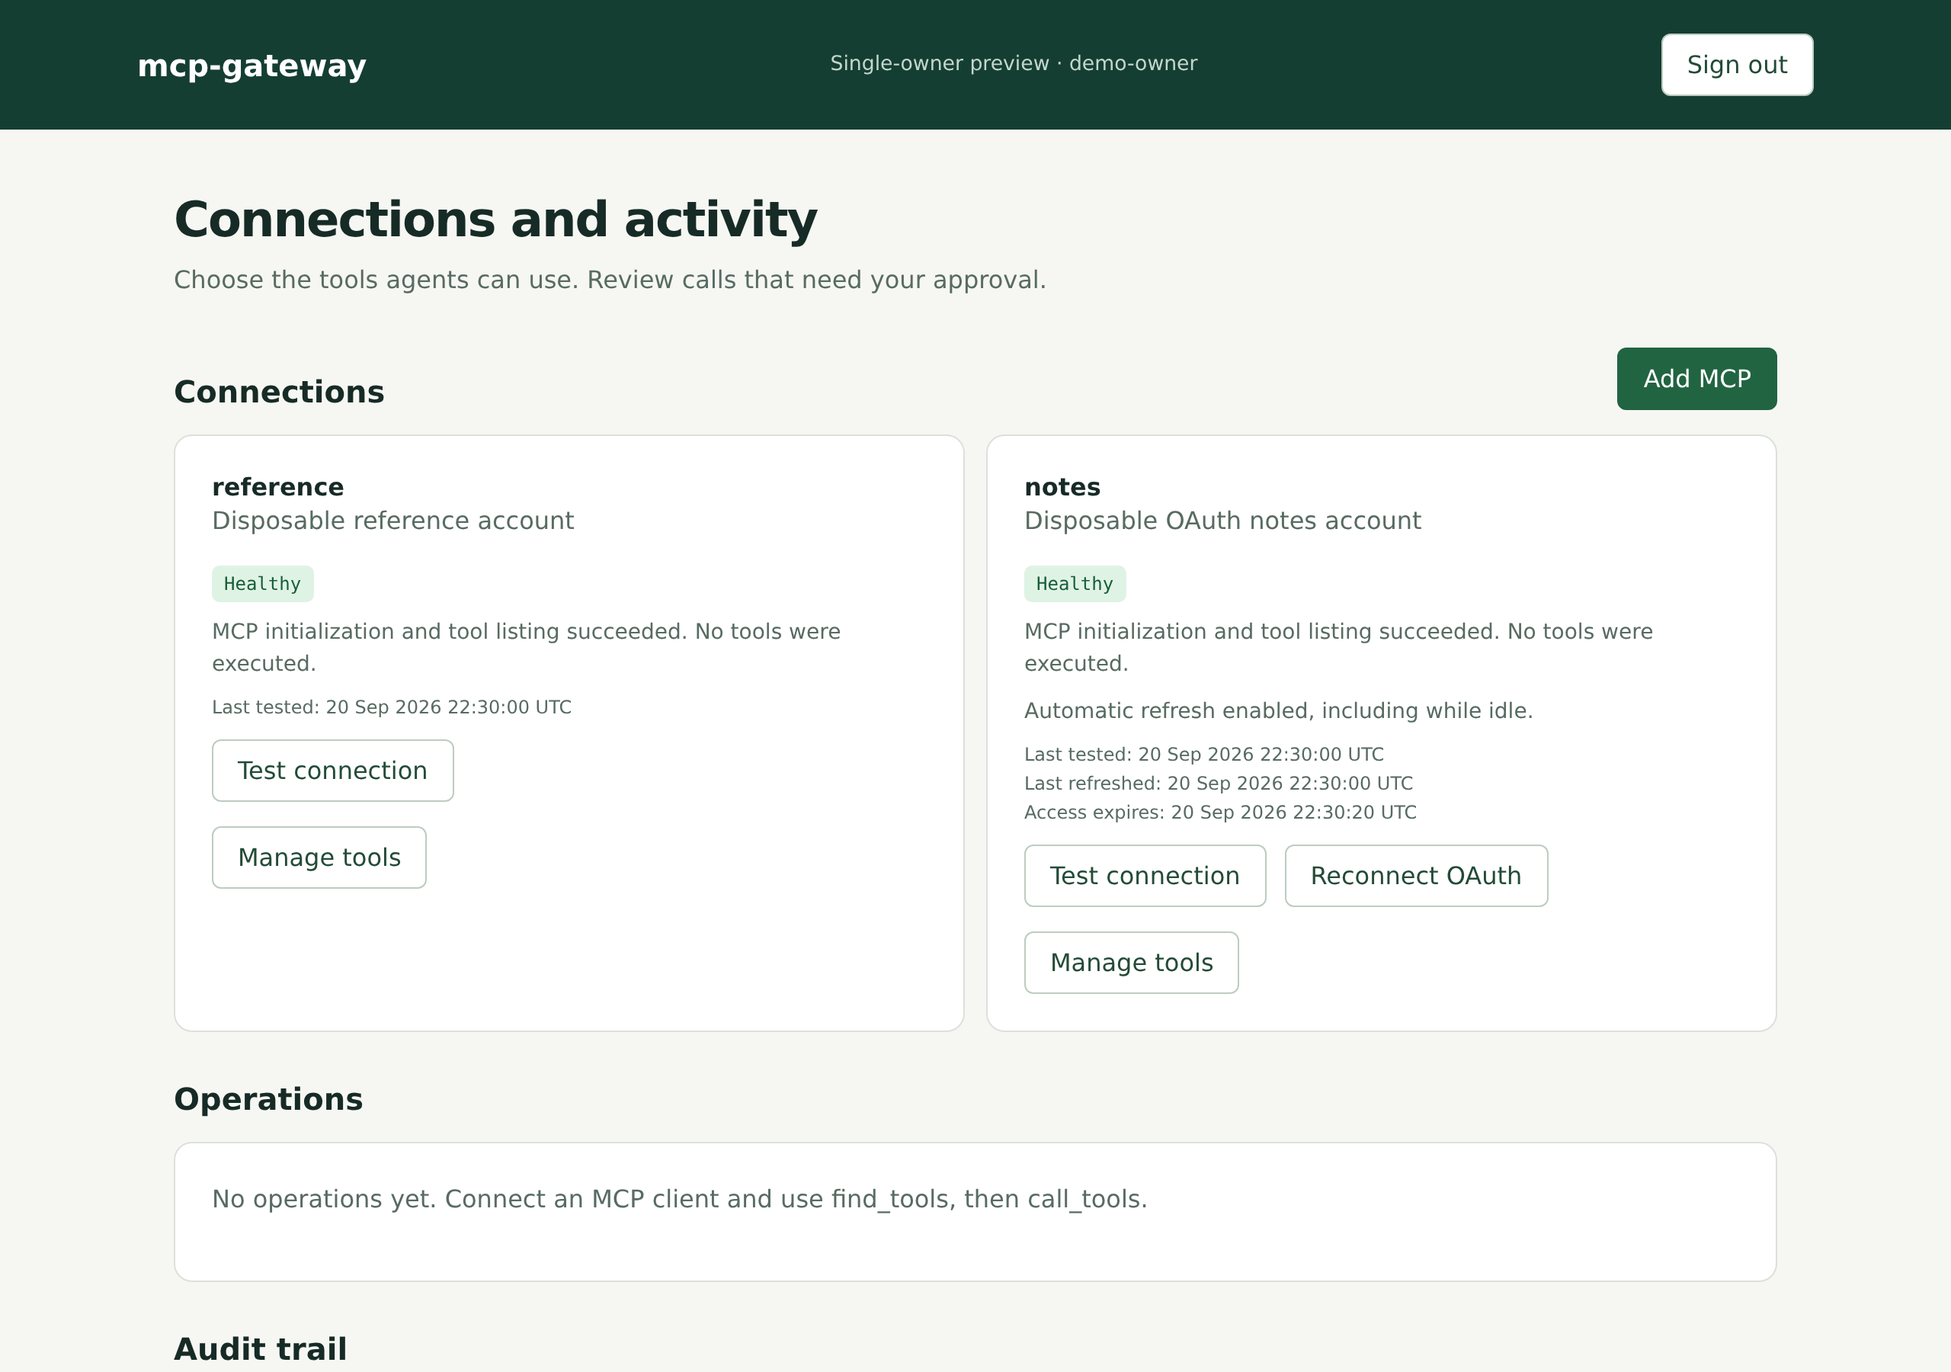
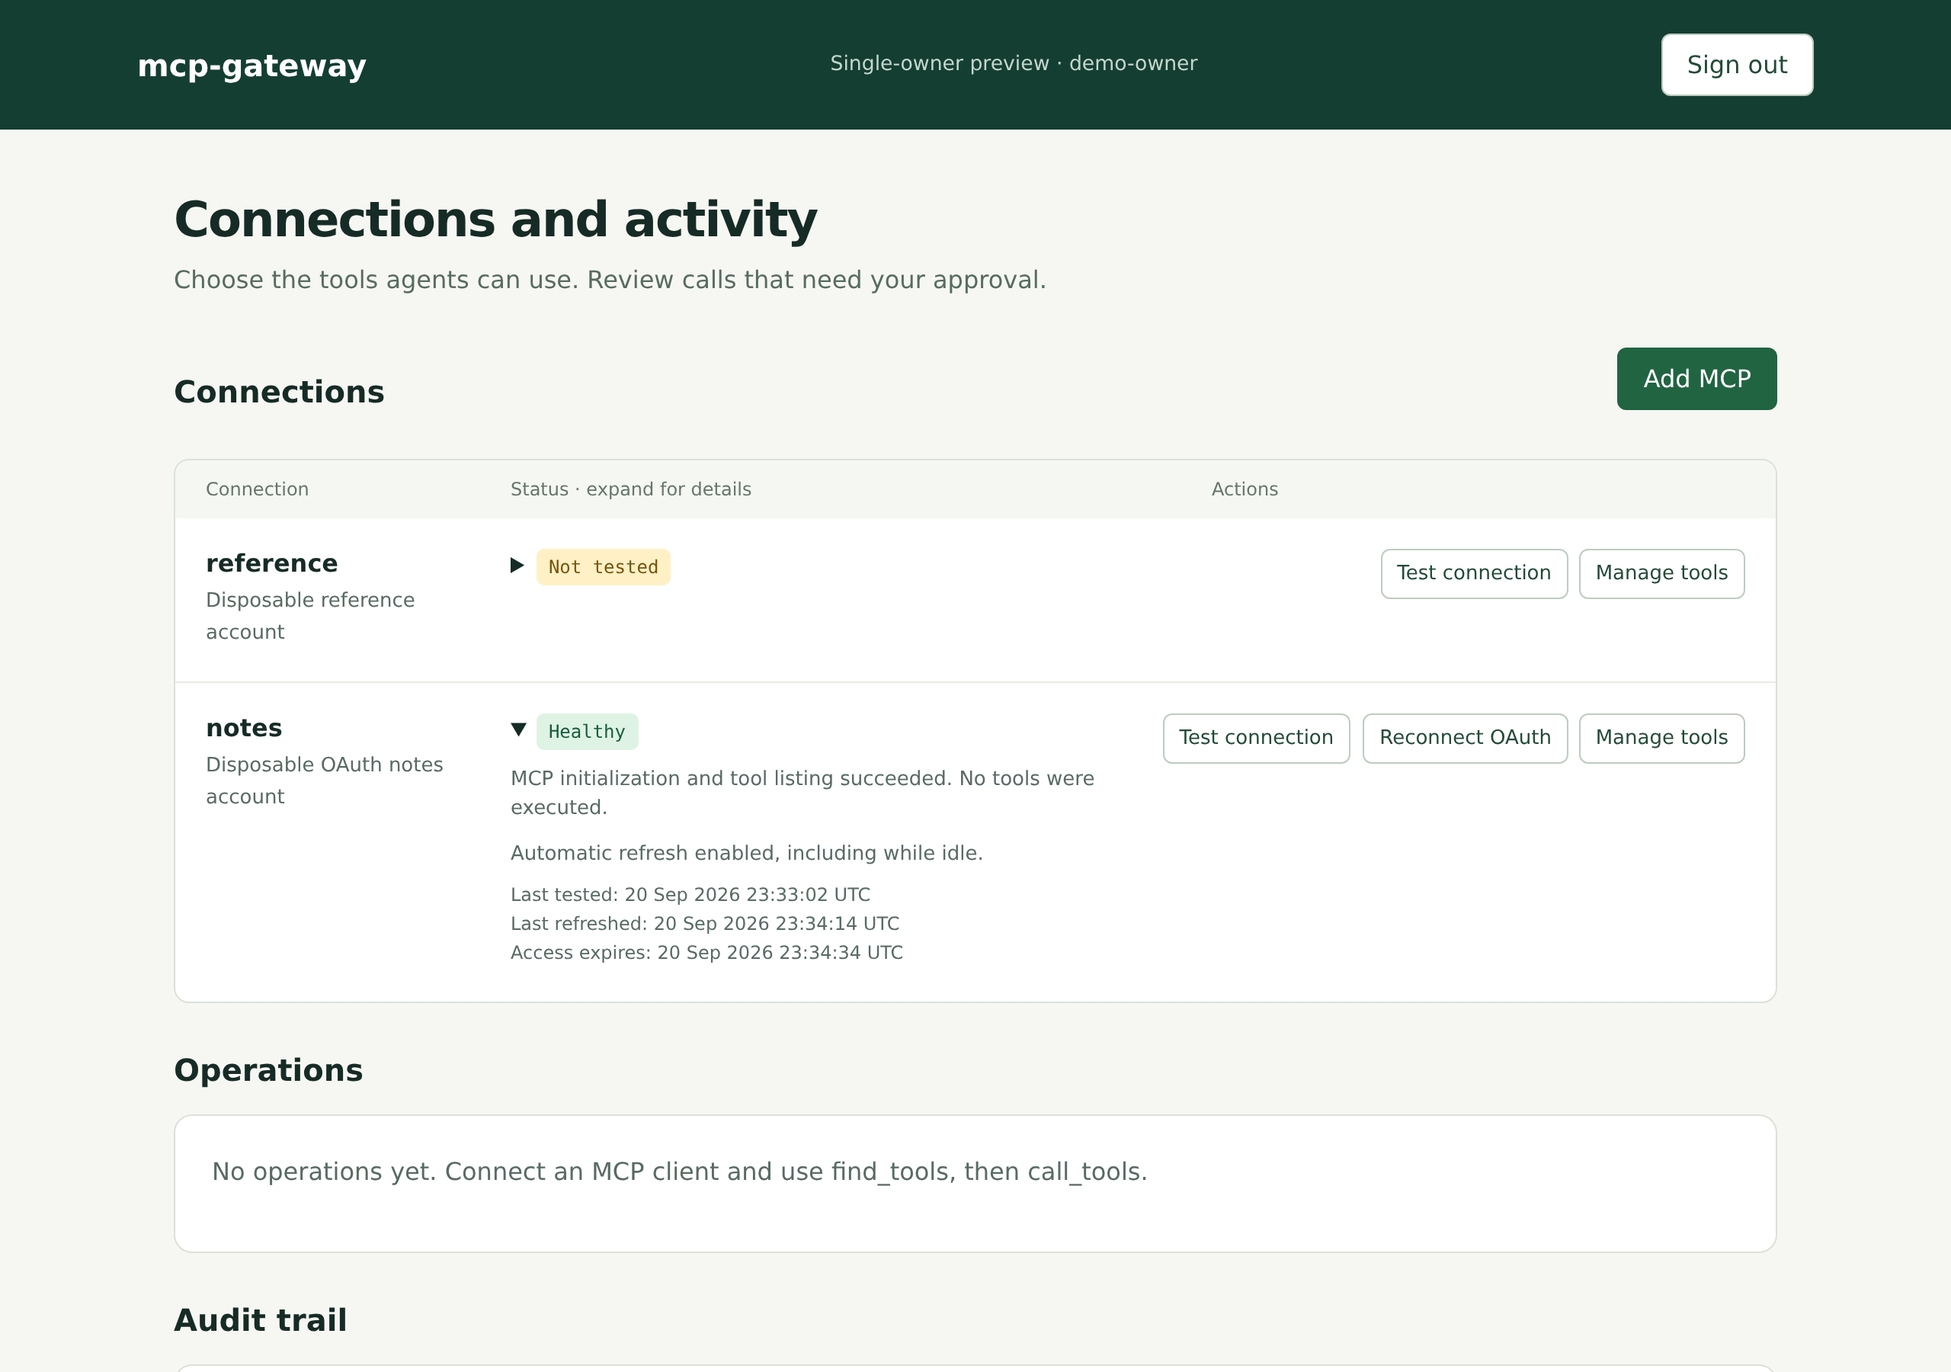
Compact connection health rows and avoid blocking status on refresh
Amp-Thread-ID: https://ampcode.com/threads/T-01a0bd1b-201d-76af-9d76-6c04b37ad752

diff --git a/internal/gateway/page.go b/internal/gateway/page.go
@@ -3,12 +3,13 @@ package gateway
 import "html/template"
 
 var page = template.Must(template.New("page").Parse(`{{define "health"}}{{if .}}
-<span class="badge {{if eq .Status "Healthy"}}succeeded{{else}}pending{{end}}">{{.Status}}</span>
-<p class="help">{{.Detail}}</p>{{if .Refresh}}<p class="help">{{.Refresh}}</p>{{end}}
+<details class="health-details"><summary><span class="badge {{if eq .Status "Healthy"}}succeeded{{else}}pending{{end}}">{{.Status}}</span><span class="visually-hidden"> · Connection diagnostics</span></summary>
+{{if or (eq .Status "Healthy") (eq .Status "Not tested")}}<p class="help">{{.Detail}}</p>{{end}}{{if .Refresh}}<p class="help">{{.Refresh}}</p>{{end}}
 <div class="health-times">{{if not .CheckedAt.IsZero}}<p>Last tested: {{.CheckedAt.Format "02 Jan 2006 15:04:05 UTC"}}</p>{{end}}
 {{if not .RefreshedAt.IsZero}}<p>Last refreshed: {{.RefreshedAt.Format "02 Jan 2006 15:04:05 UTC"}}</p>{{end}}
 {{if not .ExpiresAt.IsZero}}<p>Access expires: {{.ExpiresAt.Format "02 Jan 2006 15:04:05 UTC"}}</p>{{end}}
-{{if not .RetryAt.IsZero}}<p>Retry after: {{.RetryAt.Format "02 Jan 2006 15:04:05 UTC"}}</p>{{end}}</div>{{end}}{{end}}
+{{if not .RetryAt.IsZero}}<p>Retry after: {{.RetryAt.Format "02 Jan 2006 15:04:05 UTC"}}</p>{{end}}</div></details>
+{{if and (ne .Status "Healthy") (ne .Status "Not tested")}}<p class="help health-warning">{{.Detail}}</p>{{end}}{{end}}{{end}}
 {{define "connection-health"}}<section class="connection-status" aria-label="Connection health">
 <div class="connection-health" role="status">{{template "health" .Health}}</div>
 <form class="connection-test actions" method="post" action="/connections/{{.ID}}/test"><button>Test connection</button>
@@ -21,7 +22,8 @@ var page = template.Must(template.New("page").Parse(`{{define "health"}}{{if .}}
 .heading{display:flex;justify-content:space-between;align-items:center;gap:16px}.setup{max-width:760px;margin:auto}.field{display:grid;gap:8px;margin-bottom:22px}.field label{font-weight:600}.field small,.help{color:#586b62;line-height:1.5}input,select{box-sizing:border-box;width:100%;padding:11px 12px;border:1px solid #bccdc0;border-radius:6px;background:white;color:#172b26;font:inherit}input:focus,select:focus{outline:2px solid #216442;outline-offset:2px}.setup details{margin:16px 0}.setup summary,summary{cursor:pointer}.setup details .field{margin-top:18px}.error{background:#fde9e5;border-left:3px solid #9f3535;padding:16px}.success{background:#dff3e5;padding:16px}.setup form:not(:has(option[value="bearer"]:checked)) .bearer-fields{display:none}.setup form:not(:has(option[value="oauth"]:checked)) .oauth-fields{display:none}.tool-row{display:grid;grid-template-columns:minmax(0,1fr) 210px;gap:24px;padding:22px 0;border-bottom:1px solid #e7ebe5}.tool-row:last-child{border:0}.tool-row h2{margin:0 0 8px;font:600 16px ui-monospace,monospace;overflow-wrap:anywhere}.tool-row p{line-height:1.5;overflow-wrap:anywhere}.tool-row details{margin-top:12px}.tool-row label{display:block;font-size:13px;margin-bottom:8px}.actions{flex-wrap:wrap}.endpoint{overflow-wrap:anywhere} @media(max-width:600px){.tool-row{grid-template-columns:1fr;gap:8px}.heading{align-items:flex-start;flex-direction:column}}
 @media(min-width:601px){.tool-row{grid-template-columns:minmax(0,1fr) 260px}}
 .permissions{max-width:820px;margin:auto}.connection-heading{display:flex;justify-content:space-between;align-items:center;gap:20px;margin:18px 0 6px}.connection-heading h1{margin:0;font-size:28px;overflow-wrap:anywhere}.auth-status{flex-shrink:0;font-size:13px;list-style:none;border:1px solid #bccdc0;border-radius:6px;padding:8px 12px;cursor:pointer;color:#226a4d}.auth-status::-webkit-details-marker{display:none}.auth-status:before{content:'●';margin-right:8px}.auth-status.pending{color:#77550b}.auth-details{max-width:440px}.auth-details[open]{align-self:flex-start}.auth-details .help{font-size:13px}.auth-details summary:focus-visible,button:focus-visible,.button:focus-visible{outline:2px solid #216442;outline-offset:3px}.permission-default{border:0;padding:0;margin:38px 0 28px;min-width:0}.permission-default legend{font-size:16px;font-weight:650;padding:0}.permission-default .help{font-size:14px;margin:8px 0 16px}.default-options{display:flex;border:1px solid #bccdc0;border-radius:6px;overflow:hidden;background:white}.default-options label{position:relative;flex:1;text-align:center;cursor:pointer}.default-options label+label{border-left:1px solid #bccdc0}.default-options input{position:absolute;opacity:0;width:1px;height:1px}.default-options span{display:flex;align-items:center;justify-content:center;min-height:44px;padding:8px;font-size:14px;height:100%}.default-options input:checked+span{background:#216442;color:white}.default-options input:focus-visible+span{outline:2px solid #172b26;outline-offset:-4px}.default-warning{color:#9c3724}.permissions .note{margin:24px 0}.exceptions-card{border-radius:7px;padding:22px;margin:24px 0}.exceptions-heading{display:flex;align-items:start;justify-content:space-between;gap:16px;margin-bottom:22px}.exceptions-heading h2{margin:6px 0 0;font-size:18px}.refresh-tools{text-align:right}.refresh-tools button{padding:7px 12px;font-size:13px}.refresh-tools .help{margin:6px 0 0;font-size:12px}.exception-search{display:flex;gap:12px;margin-bottom:16px}.exception-search input{flex:1;min-width:0;font-size:14px}.exception-search button{white-space:nowrap;font-size:14px}.policy-columns,.policy-row{display:grid;grid-template-columns:minmax(0,1fr) 210px 32px;gap:14px;align-items:center}.policy-columns{background:#f5f7f3;padding:10px 8px;border-block:1px solid #e7ebe5;font-size:12px}.policy-row{padding:12px 8px;border-bottom:1px solid #e7ebe5}.policy-row summary{overflow-wrap:anywhere;font-size:14px;cursor:pointer}.policy-row details p{font-size:13px;line-height:1.5;overflow-wrap:anywhere}.policy-row select{font-size:13px;padding:9px 10px}.policy-row pre{padding:12px}.remove-exception{padding:6px;border:0;background:transparent;line-height:1;display:flex;justify-content:center}.remove-exception svg{width:17px;height:17px}.tool-select{display:none}.permissions input[type=checkbox]{width:16px;height:16px;margin:0;accent-color:#216442}.bulk-mode .policy-columns,.bulk-mode .policy-row{grid-template-columns:20px minmax(0,1fr) 210px 32px}.bulk-mode .tool-select{display:block}.bulk-actions{display:flex;align-items:center;flex-wrap:wrap;gap:8px;margin:16px 0;font-size:13px}.bulk-actions button{font-size:12px;padding:7px 10px}.bulk-actions span{margin-right:auto}.tool-navigation{display:flex;flex-wrap:wrap;align-items:center;gap:16px;margin-top:18px;font-size:13px}.text-button{border:0;padding:0;background:transparent;color:#226a4d;text-decoration:underline;font-size:13px}.tool-navigation .help{margin:0;margin-right:auto;font-size:12px}.policy-footer .help{font-size:12px}.policy-footer .actions{margin-top:28px}.visually-hidden{position:absolute;width:1px;height:1px;padding:0;margin:-1px;overflow:hidden;clip-path:inset(50%);white-space:nowrap;border:0}[hidden]{display:none!important}@media(max-width:600px){.connection-heading{align-items:flex-start;flex-direction:column;gap:12px}.auth-details{max-width:100%}.exceptions-card{padding:16px}.policy-columns,.policy-row{grid-template-columns:minmax(0,1fr) 32px;gap:10px}.policy-columns .permission-column{display:none}.policy-row details{grid-column:1}.policy-row .policy-choice{grid-column:1;grid-row:2}.policy-row .remove-exception{grid-column:2;grid-row:2}.bulk-mode .policy-columns,.bulk-mode .policy-row{grid-template-columns:20px minmax(0,1fr) 32px}.bulk-mode .policy-row details,.bulk-mode .policy-row .policy-choice{grid-column:2}.bulk-mode .policy-row .remove-exception{grid-column:3}.exception-search{flex-wrap:wrap}.exception-search input{flex-basis:100%}.default-options span{font-size:12px}.exceptions-heading{gap:8px}.refresh-tools{max-width:55%}}
-.connection-status{margin:16px 0}.connection-health .help{font-size:14px;margin:10px 0}.health-times{font-size:12px;color:#586b62}.health-times p{margin:5px 0}.connection-test.actions{margin-top:14px}.connection-test button:disabled{cursor:wait;opacity:.65}
+.connection-status{margin:16px 0;display:flex;align-items:start;justify-content:space-between;gap:16px;flex-wrap:wrap}.connection-health{min-width:0;flex:1}.connection-health .help{font-size:13px;margin:10px 0}.health-times{font-size:12px;color:#586b62}.health-times p{margin:5px 0}.connection-test.actions{margin:0;gap:8px}.connection-test button:disabled{cursor:wait;opacity:.65}.health-details summary{white-space:nowrap}.health-details summary:focus-visible{outline:2px solid #216442;outline-offset:3px}.health-warning{max-width:46ch}.connection-list{background:white;border:1px solid #dbe1d9;border-radius:10px;margin:16px 0;overflow:hidden}.connection-row{display:grid;grid-template-columns:180px minmax(0,1fr) auto;gap:20px;align-items:start;padding:20px;border-bottom:1px solid #e7ebe5}.connection-row:last-child{border:0}.connection-identity{overflow-wrap:anywhere}.connection-identity .sub{font-size:13px;margin:6px 0 0}.connection-row .connection-status{margin:0;display:contents}.connection-row .connection-health{grid-column:2;grid-row:1}.connection-row .connection-test{grid-column:3;grid-row:1;padding-right:116px}.connection-row>.button{grid-column:3;grid-row:1;justify-self:end}.connection-row button,.connection-row .button{font-size:13px;padding:8px 10px}.connection-row .test-error{grid-column:2 / -1;margin:0}.connection-columns{display:grid;grid-template-columns:180px 1fr auto;gap:20px;padding:12px 20px;background:#f5f7f3;color:#66756d;font-size:12px}.connection-columns span:last-child{width:350px}@media(max-width:900px){.connection-row{grid-template-columns:minmax(0,1fr) minmax(0,1fr)}.connection-columns{display:none}.connection-row .connection-test{grid-column:1 / -1;grid-row:2;justify-content:flex-start}.connection-row>.button{grid-column:1 / -1;grid-row:2}.connection-row .test-error{grid-column:1 / -1}.connection-status{flex-direction:column}}@media(max-width:400px){.connection-row .connection-test{padding-right:0}.connection-row>.button{grid-row:3;justify-self:start}}
+@media(max-width:600px){.connection-row{grid-template-columns:minmax(0,1fr);gap:14px}.connection-row .connection-health{grid-column:1;grid-row:2}.connection-row .connection-test{grid-row:3;padding-right:0}.connection-row>.button{grid-row:4;justify-self:start}}
 </style></head><body><header><a href="/">mcp-gateway</a><small>Single-owner preview{{if not .Operation}} · {{.Owner}}{{end}}</small><form method="post" action="/logout"><button>Sign out</button></form></header><main>
 {{if .AddConnection}}
 <div class="setup"><a href="/">← Connections</a><h1>Add MCP</h1><p class="sub">Connect a remote server, then choose which tools agents can use.</p>
@@ -157,7 +159,7 @@ var page = template.Must(template.New("page").Parse(`{{define "health"}}{{if .}}
 {{if .Result}}<div class="card result"><h2>{{if eq .Status "failed"}}Error response{{else}}Result{{end}}</h2>{{range $.ResultBlocks}}<pre>{{.}}</pre>{{end}}<details><summary>{{if eq .Status "unknown"}}Stored response{{else}}Raw MCP response{{end}}</summary><pre>{{$.RawResult}}</pre></details></div>{{end}}
 <details class="card"><summary>Request details</summary><dl><dt>Request ID</dt><dd><code>{{.ID}}</code></dd><dt>Tool</dt><dd><code>{{.Tool}}</code></dd><dt>Connection</dt><dd>{{.Connection}}</dd></dl><h3>Exact arguments</h3><pre>{{$.Arguments}}</pre></details>
 <details class="card"><summary>Identity &amp; audit</summary><dl><dt>On behalf of</dt><dd>{{.Subject}}</dd>{{if .AmpUserID}}<dt>Amp user</dt><dd><code>{{.AmpUserID}}</code> (verified)</dd>{{end}}<dt>Upstream account</dt><dd>{{.Account}} <small>(configured label, not verified identity)</small></dd><dt>Calling model</dt><dd>{{if .Model}}{{.Model}} — client-reported, unverified{{else}}Unknown — not supplied by client{{end}}</dd><dt>Request digest</dt><dd><code>{{.Digest}}</code></dd></dl></details></section>{{end}}
-{{else}}<h1>Connections and activity</h1><p class="sub">Choose the tools agents can use. Review calls that need your approval.</p><div class="heading"><h2>Connections</h2><a class="button primary" href="/connections/new">Add MCP</a></div><div class="grid">{{range .Connections}}<div class="card"><strong>{{.ID}}</strong><p class="sub">{{.Account}}</p>
+{{else}}<h1>Connections and activity</h1><p class="sub">Choose the tools agents can use. Review calls that need your approval.</p><div class="heading"><h2>Connections</h2><a class="button primary" href="/connections/new">Add MCP</a></div><div class="connection-list">{{if .Connections}}<div class="connection-columns" aria-hidden="true"><span>Connection</span><span>Status · expand for details</span><span>Actions</span></div>{{end}}{{range .Connections}}<div class="connection-row"><div class="connection-identity"><strong>{{.ID}}</strong><p class="sub">{{.Account}}</p></div>
 {{template "connection-health" .}}
 <a class="button" href="/connections/{{.ID}}/tools">Manage tools</a></div>{{else}}<div class="card"><p>No MCP servers connected yet.</p><p class="sub">Add a server, connect credentials, then review its tools.</p></div>{{end}}</div><h2>Operations</h2><div class="card scroll">{{if .Operations}}<table><thead><tr><th>Request</th><th>Tool</th><th>Account</th><th>Status</th></tr></thead><tbody>{{range .Operations}}<tr><td><a href="/operations/{{.ID}}">{{.ID}}</a></td><td>{{.Tool}}</td><td>{{.Account}}</td><td><span class="badge {{.Status}}">{{.Status}}</span></td></tr>{{end}}</tbody></table>{{else}}<p class="sub">No operations yet. Connect an MCP client and use find_tools, then call_tools.</p>{{end}}</div><h2>Audit trail</h2><div class="card scroll"><table><thead><tr><th>Sequence</th><th>Operation</th><th>Transition</th><th>Actor</th></tr></thead><tbody>{{range .Events}}<tr><td>{{.Sequence}}</td><td><a href="/operations/{{.Operation}}">{{.Operation}}</a></td><td>{{.Kind}}</td><td>{{.Actor}}</td></tr>{{else}}<tr><td colspan="4">No events yet.</td></tr>{{end}}</tbody></table></div>{{end}}
 {{end}}<footer>Local durable audit · encrypted payloads · not independently tamper-proof · no automatic write retries</footer></main>
@@ -169,7 +171,9 @@ document.querySelectorAll('.connection-test').forEach(form => form.addEventListe
   try {
     const response = await fetch(form.action, {method: 'POST', headers: {Accept: 'text/vnd.gateway.health+html'}});
     if (!response.ok || response.redirected) throw new Error('test failed');
-    section.querySelector('.connection-health').innerHTML = await response.text();
+    const health = section.querySelector('.connection-health'), expanded = health.querySelector('details')?.open;
+    health.innerHTML = await response.text();
+    if (expanded) health.querySelector('details').open = true;
   } catch (_) {
     error.textContent = 'Could not complete the test. Check your session and try again. Your tool permissions are unchanged.';
     error.hidden = false;

diff --git a/internal/gateway/connections_test.go b/internal/gateway/connections_test.go
@@ -531,6 +531,26 @@ func TestConnectionCheckIsReadOnlyAndOwnerProtected(t *testing.T) {
 	}
 }
 
+func TestHealthDisclosure(t *testing.T) {
+	for _, status := range []string{"Healthy", "Not tested", "Reconnect required", "Refresh uncertain", "Updating credentials"} {
+		t.Run(status, func(t *testing.T) {
+			w := httptest.NewRecorder()
+			if err := page.ExecuteTemplate(w, "health", upstream.Health{Status: status, Detail: "Health explanation", Refresh: "Refresh explanation"}); err != nil {
+				t.Fatal(err)
+			}
+			body := w.Body.String()
+			end := strings.Index(body, "</details>")
+			if end < 0 || strings.Contains(body, " open") || !strings.Contains(body[:end], "Refresh explanation") {
+				t.Fatal("diagnostics must be collapsed by default")
+			}
+			warning := status != "Healthy" && status != "Not tested"
+			if strings.Contains(body[end:], "Health explanation") != warning {
+				t.Fatal("only actionable health explanations should remain visible")
+			}
+		})
+	}
+}
+
 func TestDashboardOAuthStatus(t *testing.T) {
 	for _, status := range []string{"Healthy", "Not tested", "Not connected", "Reconnect required", "Status unavailable"} {
 		t.Run(status, func(t *testing.T) {

diff --git a/internal/upstream/credentials_test.go b/internal/upstream/credentials_test.go
@@ -33,6 +33,38 @@ func refreshFixture(t *testing.T, handler http.HandlerFunc, expiry time.Time) (*
 	return m, m.conns[c.ID], s
 }
 
+func TestHealthDuringSlowRefresh(t *testing.T) {
+	started, release := make(chan struct{}), make(chan struct{})
+	m, c, _ := refreshFixture(t, func(w http.ResponseWriter, r *http.Request) {
+		close(started)
+		<-release
+		w.Header().Set("Content-Type", "application/json")
+		fmt.Fprint(w, `{"access_token":"new-canary","expires_in":3600}`)
+	}, time.Now().Add(-time.Minute))
+	finished := make(chan error, 1)
+	go func() {
+		_, err := m.refresh(t.Context(), c, false)
+		finished <- err
+	}()
+	defer func() {
+		close(release)
+		if err := <-finished; err != nil {
+			t.Error(err)
+		}
+	}()
+	<-started
+	health := make(chan Health, 1)
+	go func() { health <- m.Health(t.Context(), c.config.ID) }()
+	select {
+	case h := <-health:
+		if h.Status != "Updating credentials" {
+			t.Fatalf("in-flight refresh status = %q", h.Status)
+		}
+	case <-time.After(time.Second):
+		t.Fatal("health blocked behind provider request")
+	}
+}
+
 func TestProactiveRefreshDueAndRestart(t *testing.T) {
 	for _, tc := range []struct {
 		name   string

diff --git a/internal/upstream/credentials.go b/internal/upstream/credentials.go
@@ -40,7 +40,11 @@ func (m *Manager) Health(ctx context.Context, id string) Health {
 	if !ok {
 		return Health{Status: "Not connected"}
 	}
-	c.mu.Lock()
+	// Credential updates serialize network exchanges, but a slow provider must
+	// not block the dashboard. Do not report an in-flight claim as uncertain.
+	if !c.mu.TryLock() {
+		return Health{Status: "Updating credentials", Detail: "A credential update is in progress. Check again shortly."}
+	}
 	defer c.mu.Unlock()
 	h := c.check
 	if h.Status == "" {
